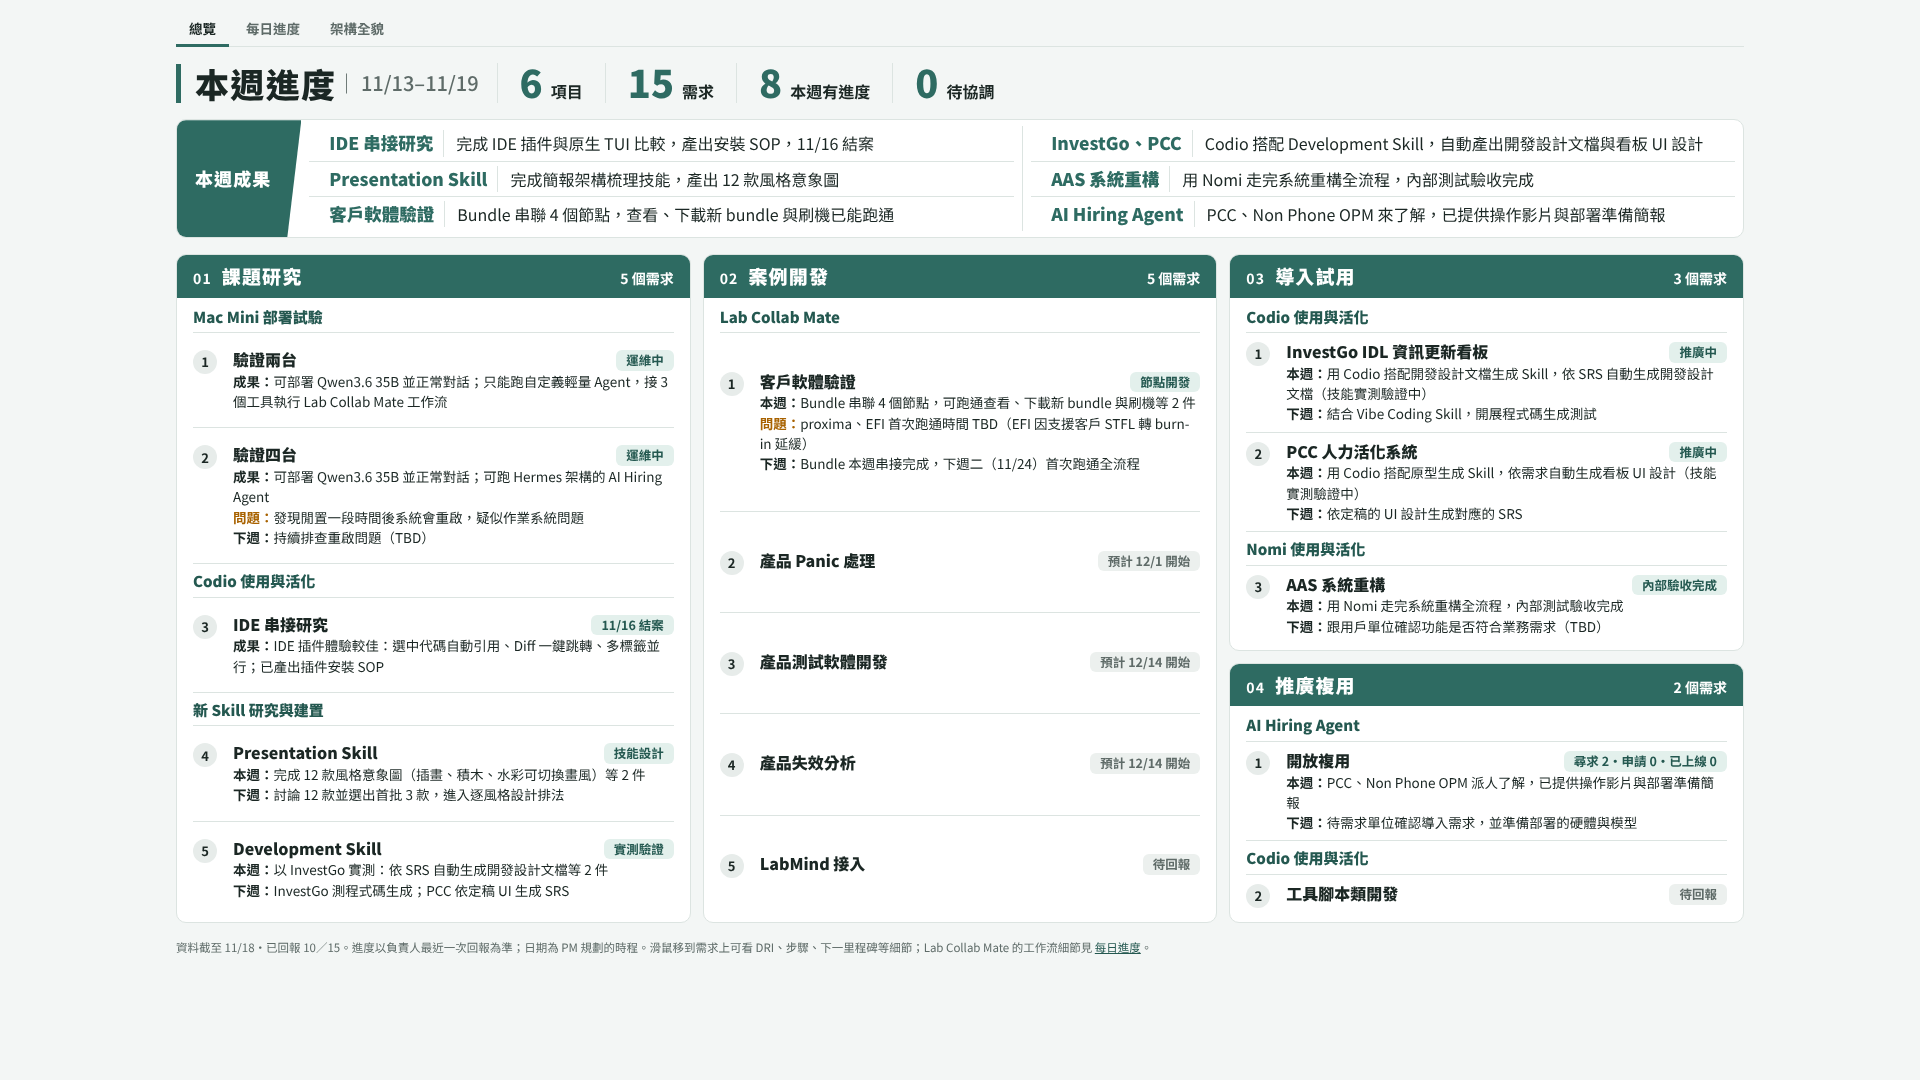
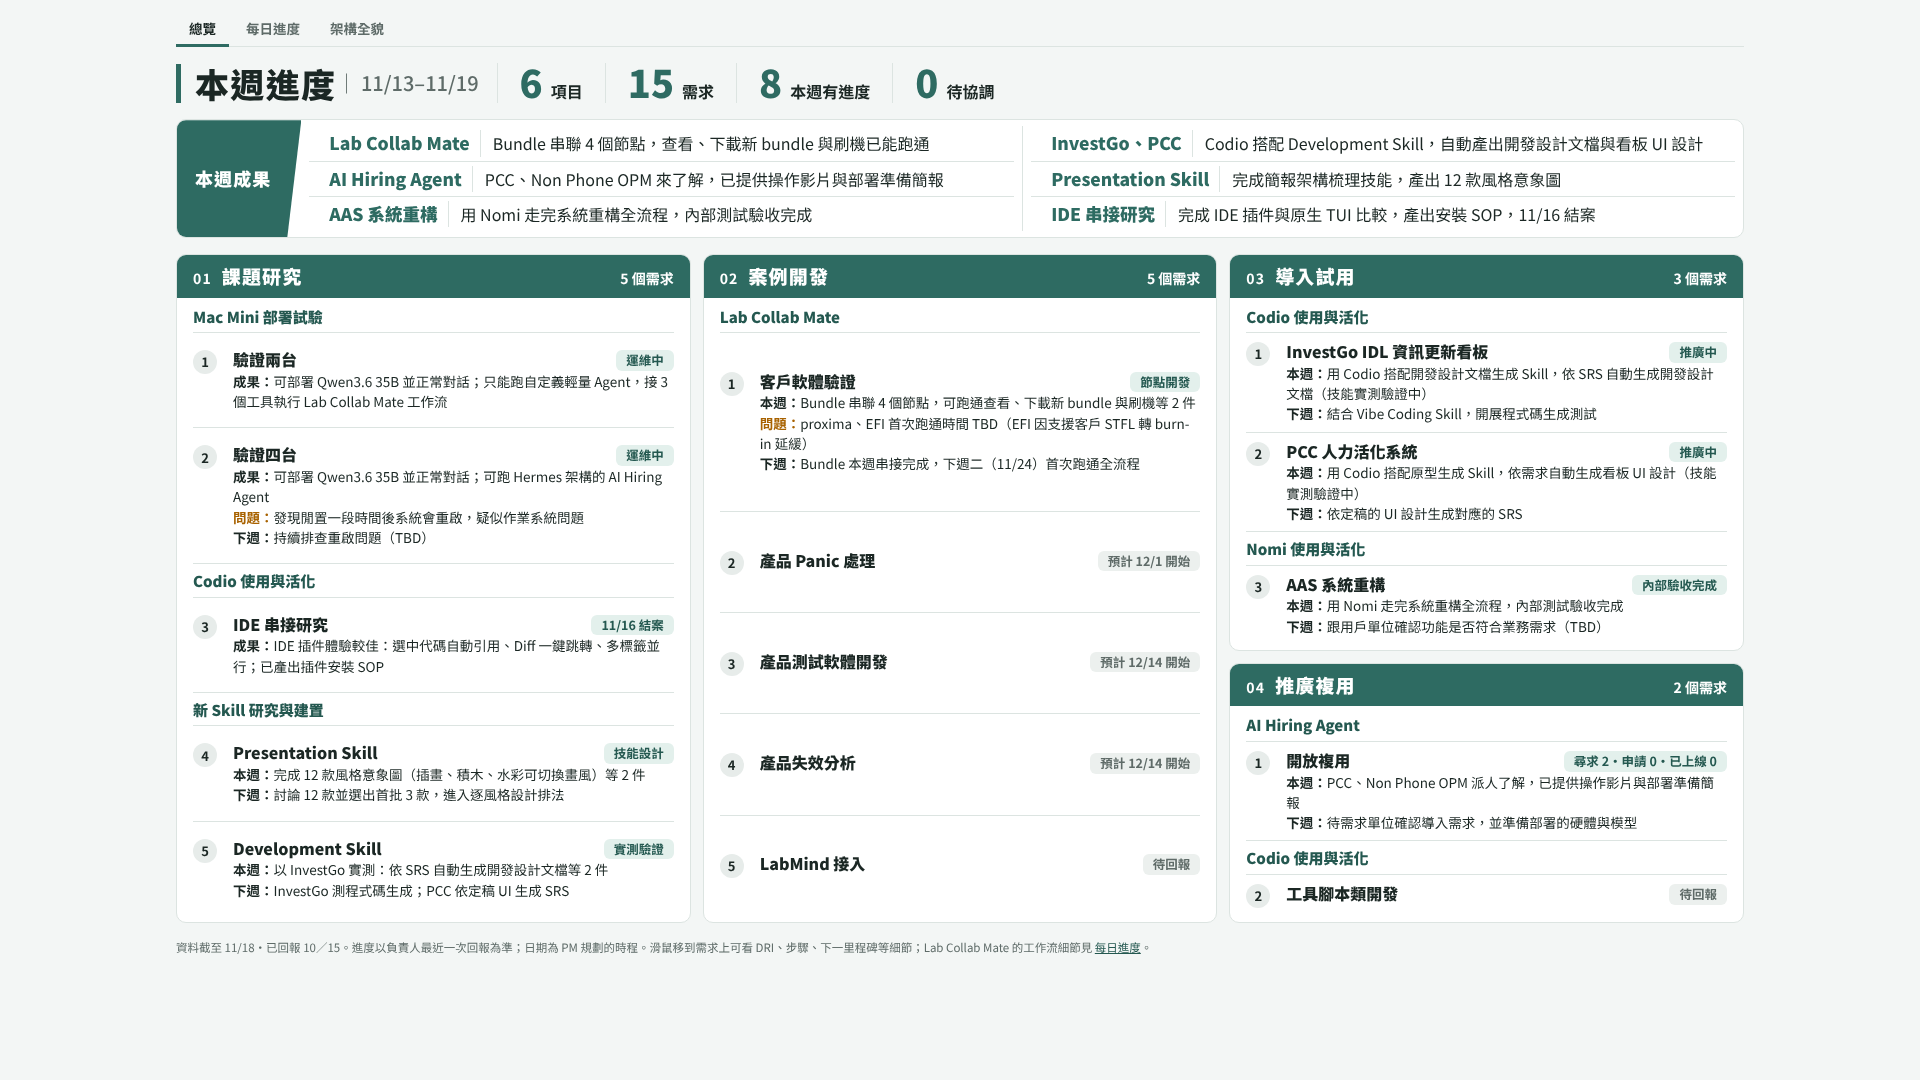
[2026-11-17_overview-redesign] 本週成果依重要性排序；客戶軟體驗證成果標題改為 Lab Collab Mate
Claude-Session: https://claude.ai/code/session_01Cd6Gft6mTX8zcMZinAmXya

Changed region(s): [[0.1562, 0.1222, 0.5, 0.2139], [0.5312, 0.1528, 0.875, 0.2139]]

diff --git a/public/index.html b/public/index.html
@@ -181,7 +181,7 @@ html.fit2 .ask b{font-size:15.5px}
      rel    與其他需求的關聯
      nums   推廣型要問的數字名稱
      rep    本週回報：{now:步驟索引或索引陣列（-1＝尚未開始）, subDone:子階段完成數, subs:[[子項,步驟索引]],
-                       pill:"狀態標籤文字（選填，覆寫自動判斷）", hideDone:true＝卡片不顯示本週（內容已在成果，只用於本週成果與統計）, issue:"遇到的問題（不需副總幫忙；不算本週進度）", done:[...], next:[...], hl:[放進「本週成果」的完成事項：索引，或 {i:索引, s:主題, t:短句}], help:"", conclusion:"", nums:{...}}；null＝待回報
+                       pill:"狀態標籤文字（選填，覆寫自動判斷）", hideDone:true＝卡片不顯示本週（內容已在成果，只用於本週成果與統計）, issue:"遇到的問題（不需副總幫忙；不算本週進度）", done:[...], next:[...], hl:[放進「本週成果」的完成事項：索引，或 {i:索引, s:主題, t:短句, o:顯示順序}], help:"", conclusion:"", nums:{...}}；null＝待回報
      last   最近一次的已知狀態（本週尚未回報時顯示）：{date, now, subs, text} */
 const WEEK = {from:"2026-11-13", to:"2026-11-19"};  /* 週次：週五到隔週四 */
 const ASOF = "2026-11-18";
@@ -202,14 +202,14 @@ const MODULES = [
      desc:"比較 Codio 的 IDE 插件與原生 TUI：插件在上手、多會話、閱讀輸出、選中代碼、引用檔案、跳回代碼都較直覺；TUI 把操作留在鍵盤上。產出 IDE 插件安裝 SOP（5 步）。11/16 結案，沒有規劃下一步。",
      rep:{pill:"11/16 結案", conclusion:"IDE 插件體驗較佳：選中代碼自動引用、Diff 一鍵跳轉、多標籤並行；已產出插件安裝 SOP",
           done:["完成 IDE 插件與原生 TUI 體驗比較，產出插件安裝 SOP，11/16 結案"], hideDone:true,
-          hl:[{i:0, s:"IDE 串接研究", t:"完成 IDE 插件與原生 TUI 比較，產出安裝 SOP，11/16 結案"}]}},
+          hl:[{i:0, o:6, s:"IDE 串接研究", t:"完成 IDE 插件與原生 TUI 比較，產出安裝 SOP，11/16 結案"}]}},
     {proj:"新 Skill 研究與建置", name:"Presentation Skill", type:"deliver", dri:"Alyanna", steps:SKILL, rel:"之後接上 Nomi",
      sub:{at:2, items:["目標／對象／架構／內容梳理","風格與排版","品管與檢查驗證"]},
      desc:"技能名 deck-architect（從頭到尾支援簡報全流程的 Skill）。進度來源：claude-base-skills repo 的 presentation-skill-generation 分支。目前在技能設計：方法論已用 4 份真實簡報驗證，正在做設計美感的風格定調；尚未用真實簡報從頭做到成品。",
      rep:{now:1,
           done:["完成 12 款風格意象圖（插畫、積木、水彩可切換畫風）", "依審閱回饋重做顧問報告、週報、攝影雜誌三款"],
           next:["討論 12 款並選出首批 3 款，進入逐風格設計排法"],
-          hl:[{i:0, s:"Presentation Skill", t:"完成簡報架構梳理技能，產出 12 款風格意象圖"}]}},
+          hl:[{i:0, o:5, s:"Presentation Skill", t:"完成簡報架構梳理技能，產出 12 款風格意象圖"}]}},
     {proj:"新 Skill 研究與建置", name:"Development Skill", type:"deliver", dri:"Lucas", steps:SKILL, rel:"由 Codio 執行，InvestGo、PCC 驗證",
      sub:{at:2, items:["需求梳理","SRS","原型設計","開發設計文檔","程式碼生成校正","上線運維","測試用例生成"]},
      desc:"以 InvestGo 部門 IDL 資訊更新看板、PCC 人力活化系統兩個需求實測，與 Codio 的兩個案例共用驗證。",
@@ -222,7 +222,7 @@ const MODULES = [
      ms:[["2026-11-24","Bundle 首次跑通"],["2026-11-25","proxima 自動化節點開發完成"],["2026-12-01","Bundle 五次跑通"],["2026-12-11","正式上線（proxima、EFI 首次跑通 TBD）"]],
      rep:{now:1, subs:[["Bundle",1],["proxima",1],["EFI",1]],
           done:["Bundle 串聯 4 個節點，可跑通查看、下載新 bundle 與刷機", "Bundle 累計 9 個、proxima 6 個、EFI 1 個自動化節點"],
-          hl:[{i:0, s:"客戶軟體驗證", t:"Bundle 串聯 4 個節點，查看、下載新 bundle 與刷機已能跑通"}],
+          hl:[{i:0, s:"Lab Collab Mate", t:"Bundle 串聯 4 個節點，查看、下載新 bundle 與刷機已能跑通", o:1}],
           issue:"proxima、EFI 首次跑通時間 TBD（EFI 因支援客戶 STFL 轉 burn-in 延緩）",
           next:["Bundle 本週串接完成，下週二（11/24）首次跑通全流程"]}},
     {proj:"Lab Collab Mate", name:"產品 Panic 處理", type:"deliver", dri:"Simon、Gary、熙宁", steps:WF, start:"2026-12-01",
@@ -241,7 +241,7 @@ const MODULES = [
      desc:"大型系統類開發：以 InvestGo 部門 IDL 資訊更新看板需求為試點，用 Codio 搭配開發 Skill 走開發流程。",
      rep:{done:["用 Codio 搭配開發設計文檔生成 Skill，依 SRS 自動生成開發設計文檔（技能實測驗證中）"],
           next:["結合 Vibe Coding Skill，開展程式碼生成測試"],
-          hl:[{i:0, s:"InvestGo、PCC", t:"Codio 搭配 Development Skill，自動產出開發設計文檔與看板 UI 設計"}]}},
+          hl:[{i:0, o:4, s:"InvestGo、PCC", t:"Codio 搭配 Development Skill，自動產出開發設計文檔與看板 UI 設計"}]}},
     {proj:"Codio 使用與活化", name:"PCC 人力活化系統", type:"promo", dri:"Lucas", rel:"與 Development Skill 共用驗證",
      desc:"大型系統類開發：以 PCC 人力活化系統需求為試點，用 Codio 搭配開發 Skill 走開發流程。",
      rep:{done:["用 Codio 搭配原型生成 Skill，依需求自動生成看板 UI 設計（技能實測驗證中）"],
@@ -252,14 +252,14 @@ const MODULES = [
      rep:{now:5, pill:"內部驗收完成",
           done:["用 Nomi 走完系統重構全流程，內部測試驗收完成"],
           next:["跟用戶單位確認功能是否符合業務需求（TBD）"],
-          hl:[{i:0, s:"AAS 系統重構", t:"用 Nomi 走完系統重構全流程，內部測試驗收完成"}]}}
+          hl:[{i:0, o:3, s:"AAS 系統重構", t:"用 Nomi 走完系統重構全流程，內部測試驗收完成"}]}}
   ]},
   {no:"④", name:"推廣複用", col:2, reqs:[
     {proj:"AI Hiring Agent", name:"開放複用", type:"promo", dri:"Alyanna", nums:["尋求","申請","已上線"], numUnit:"單位",
      rep:{nums:{"尋求":2, "申請":0, "已上線":0},
           done:["PCC、Non Phone OPM 派人了解，已提供操作影片與部署準備簡報"],
           next:["待需求單位確認導入需求，並準備部署的硬體與模型"],
-          hl:[{i:0, s:"AI Hiring Agent", t:"PCC、Non Phone OPM 來了解，已提供操作影片與部署準備簡報"}]}},
+          hl:[{i:0, o:2, s:"AI Hiring Agent", t:"PCC、Non Phone OPM 來了解，已提供操作影片與部署準備簡報"}]}},
     {proj:"Codio 使用與活化", name:"工具腳本類開發", type:"promo", dri:null, rep:null}
   ]}
 ];
@@ -284,7 +284,8 @@ $("head").innerHTML = `<h1>本週進度</h1><span class="wk num">｜ ${md(WEEK.f
 
 /* 第二行：本週成果「主題｜成果」。回報的 hl 可寫 {i:完成事項索引, s:主題, t:短句}；只寫索引時，主題用需求名、內容用完成事項原文。最多 6 則 */
 let wins = reported.flatMap(r => (r.rep.hl || []).map(h => typeof h === "number"
-  ? {s:r.name, t:r.rep.done[h]} : {s:h.s || r.name, t:h.t || r.rep.done[h.i]}));
+  ? {s:r.name, t:r.rep.done[h]} : {s:h.s || r.name, t:h.t || r.rep.done[h.i], o:h.o ?? 99}));
+wins.sort((a, b) => (a.o ?? 99) - (b.o ?? 99));  /* hl 的 o＝顯示順序（依重要性，PM 決定） */
 if (!wins.length) wins = reported.filter(hasDone).map(r => ({s:r.name, t:r.rep.done[0]}));
 wins = wins.slice(0, 6);
 $("wins").innerHTML = wins.length
